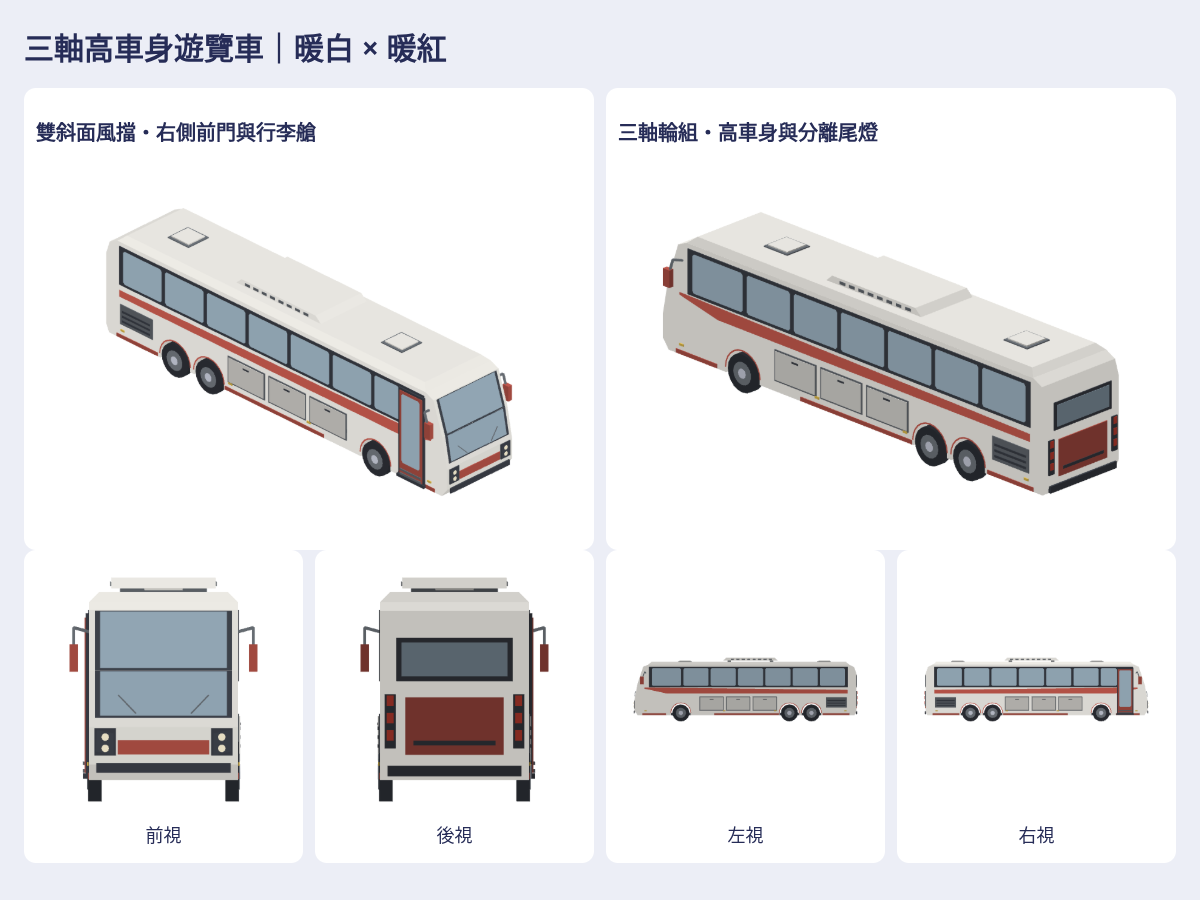
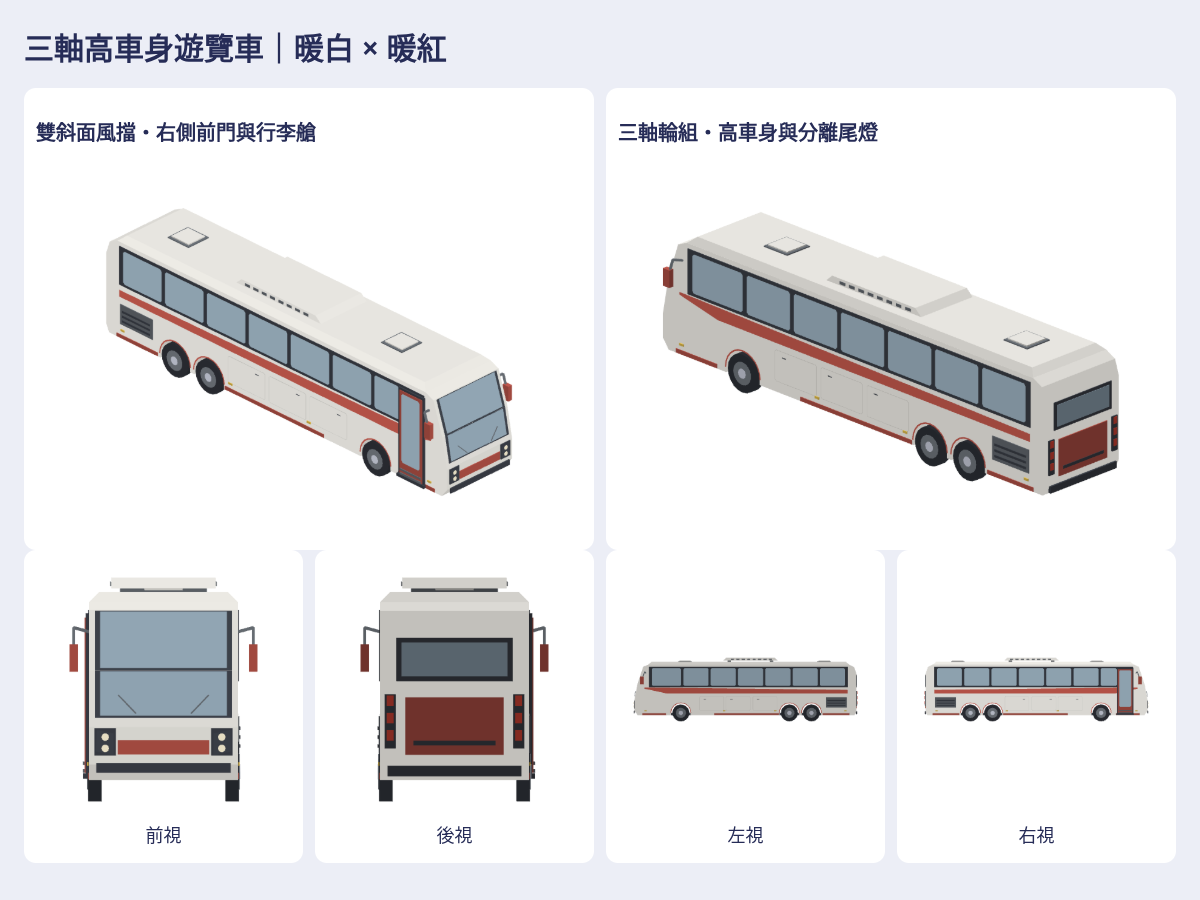
Refine coach luggage doors with flush body-coloured panels
Agent: Codex

diff --git a/Sources/GamePresentation/Map3DCoachBus.swift b/Sources/GamePresentation/Map3DCoachBus.swift
@@ -16,6 +16,26 @@ public enum Map3DCoachBus {
 }
 
 extension StationKitBuilder {
+    /// Thin, closed body-coloured luggage door with a narrow seam and a
+    /// small flush grip. Direct face colours keep the paint identical to
+    /// the surrounding shell; addBox's shaded sides made the old doors grey.
+    mutating func coachLuggageDoor(_ x: Float,_ side: Float) {
+        let paint=Map3DCoachBus.bodyColor,seam=Map3DColor.shaded(paint,0.87)
+        let normal=Map3DPoint(0,0,side)
+        func outline(_ cx: Float,_ y: Float,_ z: Float,_ width: Float,_ height: Float,_ r: Float) -> [Map3DPoint] {
+            let a=cx-width/2,b=cx+width/2
+            return [Map3DPoint(a+r,y,z),Map3DPoint(b-r,y,z),Map3DPoint(b,y+r,z),Map3DPoint(b,y+height-r,z),Map3DPoint(b-r,y+height,z),Map3DPoint(a+r,y+height,z),Map3DPoint(a,y+height-r,z),Map3DPoint(a,y+r,z)]
+        }
+        let back=outline(x,0.64,side*1.249,1.43,0.83,0.045)
+        let front=outline(x,0.64,side*1.256,1.43,0.83,0.045)
+        let centre=Map3DPoint(x,1.055,side*1.2525)
+        face(back,inside:centre,color:seam);face(front,inside:centre,color:seam)
+        for i in 0..<8 { let j=(i+1)%8;face([back[i],back[j],front[j],front[i]],inside:centre,color:seam) }
+        // 12 mm reveal; separate paint/backing enough to avoid depth flicker.
+        // Paint is 9 mm proud; the small grip stays within 12 mm.
+        shuttlePanel(outline(x,0.652,side*1.259,1.406,0.806,0.035),normal:normal,color:paint)
+        shuttlePanel(outline(x+0.40,1.298,side*1.2615,0.14,0.026,0.006),normal:normal,color:Map3DStreetModel.trim)
+    }
     mutating func coachBus() {
         let white=Map3DCoachBus.bodyColor,red=Map3DCoachBus.accentColor
         let trim=Map3DStreetModel.trim,steel=Self.steel
@@ -56,9 +76,7 @@ extension StationKitBuilder {
             shuttlePanel([Map3DPoint(-6.03,1.65,side*1.272),Map3DPoint(4.65,1.65,side*1.272),Map3DPoint(5.95,1.93,side*1.272),Map3DPoint(5.95,2.00,side*1.272),Map3DPoint(-6.03,1.86,side*1.272)],normal:Map3DPoint(0,0,side),color:red)
             // Luggage hatches between the tandem rear and front axle.
             for x: Float in [-1.15,0.42,1.99] {
-                box(x,0.64,side*1.261,1.43,0.025,0.83,steel)
-                box(x,0.68,side*1.277,1.35,0.018,0.75,white)
-                box(x,1.28,side*1.289,0.22,0.016,0.045,trim)
+                coachLuggageDoor(x,side)
             }
             for (x,w): (Float,Float) in [(-5.35,1.58),(-0.08,3.82),(5.38,1.40)] { box(x,0.37,side*1.255,w,0.025,0.11,red) }
             box(-5.37,0.81,side*1.263,1.25,0.026,0.62,steel)

diff --git a/Tests/GamePresentationTests/Map3DCoachBusTests.swift b/Tests/GamePresentationTests/Map3DCoachBusTests.swift
@@ -23,6 +23,20 @@ final class Map3DCoachBusTests: XCTestCase {
         }
         XCTAssertEqual(m.vertices,Map3DCoachBus.model().vertices)
     }
+    func testLuggageDoorsUseBodyPaintAndFineFlushSeams() {
+        let m=Map3DCoachBus.model()
+        for x: Float in [-1.15,0.42,1.99] { for side: Float in [-1,1] {
+            let surface=m.vertices.filter { abs($0.x-x)<0.73 && $0.z>0.70 && $0.z<1.48 && $0.y*side>1.251 }
+            XCTAssertFalse(surface.isEmpty)
+            XCTAssertFalse(surface.contains { $0.color==Map3DPalette.tankStand },"No thick steel-coloured luggage boxes")
+            XCTAssertTrue(surface.contains { $0.color==Map3DCoachBus.bodyColor && $0.ny*side>0.9 },"The door face must match the body's unshaded paint")
+            XCTAssertLessThanOrEqual(surface.map { abs($0.y) }.max() ?? 0,1.262,"Door and handle stay within12mm of the body")
+            let paint=surface.filter { $0.color==Map3DCoachBus.bodyColor && $0.ny*side>0.9 }.map { abs($0.y) }.min() ?? 0
+            let seam=surface.filter { $0.color==Map3DColor.shaded(Map3DCoachBus.bodyColor,0.87) }.map { abs($0.y) }.max() ?? 0
+            XCTAssertGreaterThanOrEqual(paint-seam,0.002,"Paint must clear the seam backing enough to prevent depth flicker")
+            XCTAssertLessThan(ray(from:Map3DPoint(x,side*1.28,1.0),direction:Map3DPoint(0,-side,0),vertices:m.vertices),0.031,"Door remains backed by the body")
+        } }
+    }
     func testThreeSeparateAxlesHaveRealWheelOpenings() {
         let m=Map3DCoachBus.model()
         for x: Float in [-3.90,-2.60,3.80] {

diff --git a/tools/coach-bus/README.md b/tools/coach-bus/README.md
@@ -10,7 +10,7 @@ python3 -m http.server 8080 --directory /absolute/path/outside/public/checkout
 
 Open localhost:8080/index.html: filters/search, seven directions, rotate/zoom, backgrounds, PNG/native/GLB downloads. Existing station-kit binary/GLB/renderer and shuttle/civic closed geometry are reused; no new dependencies or external calls.
 
-Native axes +x front/+y left/+z up, metres. Approximate length13.19m, body2.50m wide, mirrors3.16m, equipment3.76m high, wheel bottom0. Three actual axles, open concave arches, raised glazing, right-front door and contact steps, luggage hatches, two physical windscreen slopes, supported mirrors and HVAC, head/tail glow. Matte opaque paint uses shopAwnings[3]/[1]. No logos, brands or raw copied textures/models.
+Native axes +x front/+y left/+z up, metres. Approximate length13.19m, body2.50m wide, mirrors3.16m, equipment3.76m high, wheel bottom0. Three actual axles, open concave arches, raised glazing, right-front door and contact steps, luggage hatches, two physical windscreen slopes, supported mirrors and HVAC, head/tail glow. Matte opaque paint uses shopAwnings[3]/[1]. The luggage doors have closed 7mm shells, body-matched unshaded faces,12mm fine seams and small flush grips; avoid addBox side shading turning them into grey boxes. No logos, brands or raw copied textures/models.
 
 The existing5% bus pool keeps30% shuttle and35% low-floor, then20% coach and15% old city bus. The first two seed selections are unchanged. Traffic density, bus cap, road eligibility and17m conservative spacing remain. No GameCore purchases/operations/save changes.
 

diff --git a/docs/art/coach-bus-2026-10-21/README.md b/docs/art/coach-bus-2026-10-21/README.md
@@ -1,6 +1,6 @@
 # 暖白暖紅三軸遊覽車
 
-依作者4張綠白高車身遊覽車圖保留長窗帶、後雙軸與右前門；改遊戲暖白／暖紅霧面頂點色，重組兩段斜面車頭／雙燈、車尾／尾燈、行李艙、鏡架和車頂HVAC，無品牌。
+依作者4張綠白高車身遊覽車圖保留長窗帶、後雙軸與右前門；改遊戲暖白／暖紅霧面頂點色，重組兩段斜面車頭／雙燈、車尾／尾燈、行李艙、鏡架和車頂HVAC，無品牌。行李艙已按作者回饋改成貼齊車身的同色薄門、細接縫與小把手，移除厚灰框外掛箱感。
 
 ![實際原生模型總覽](overview.png)
 
